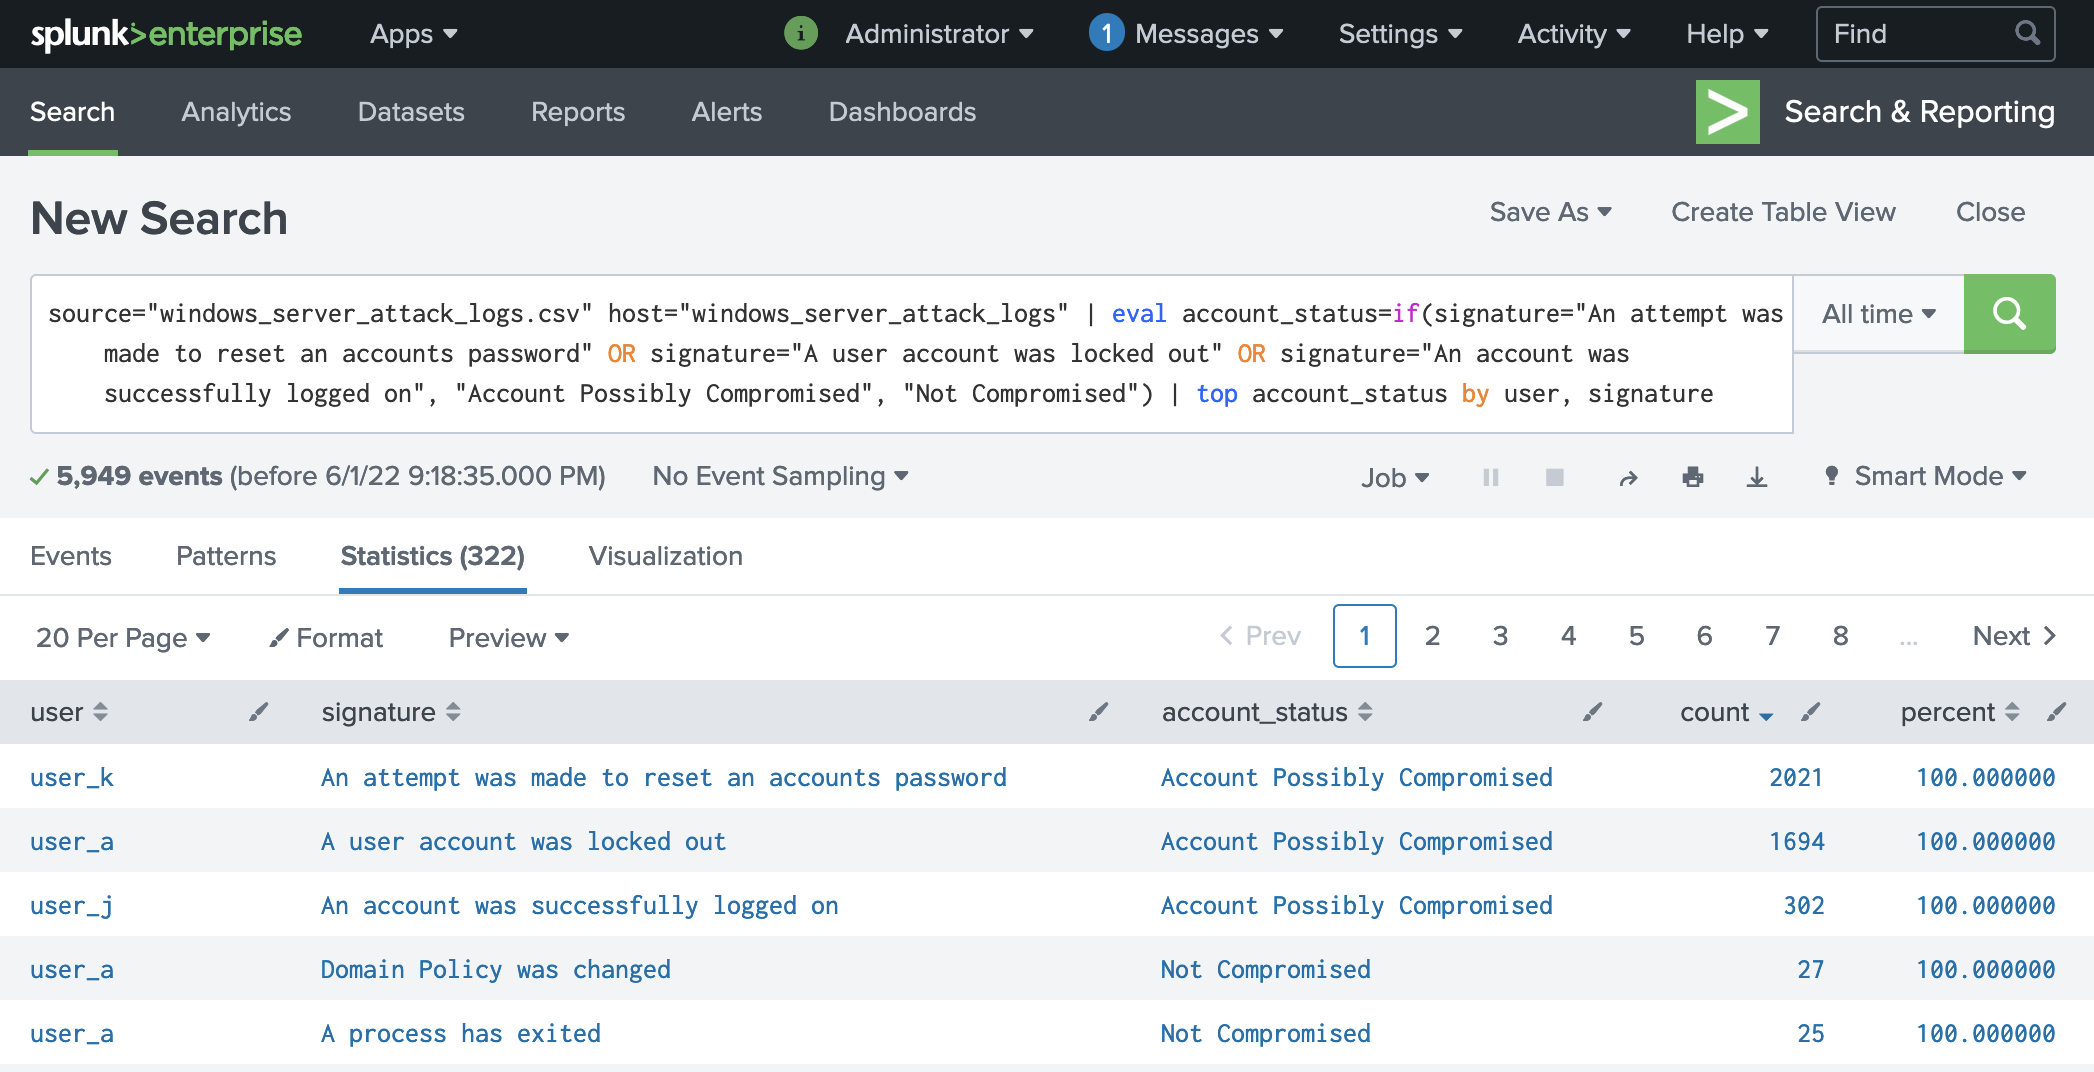
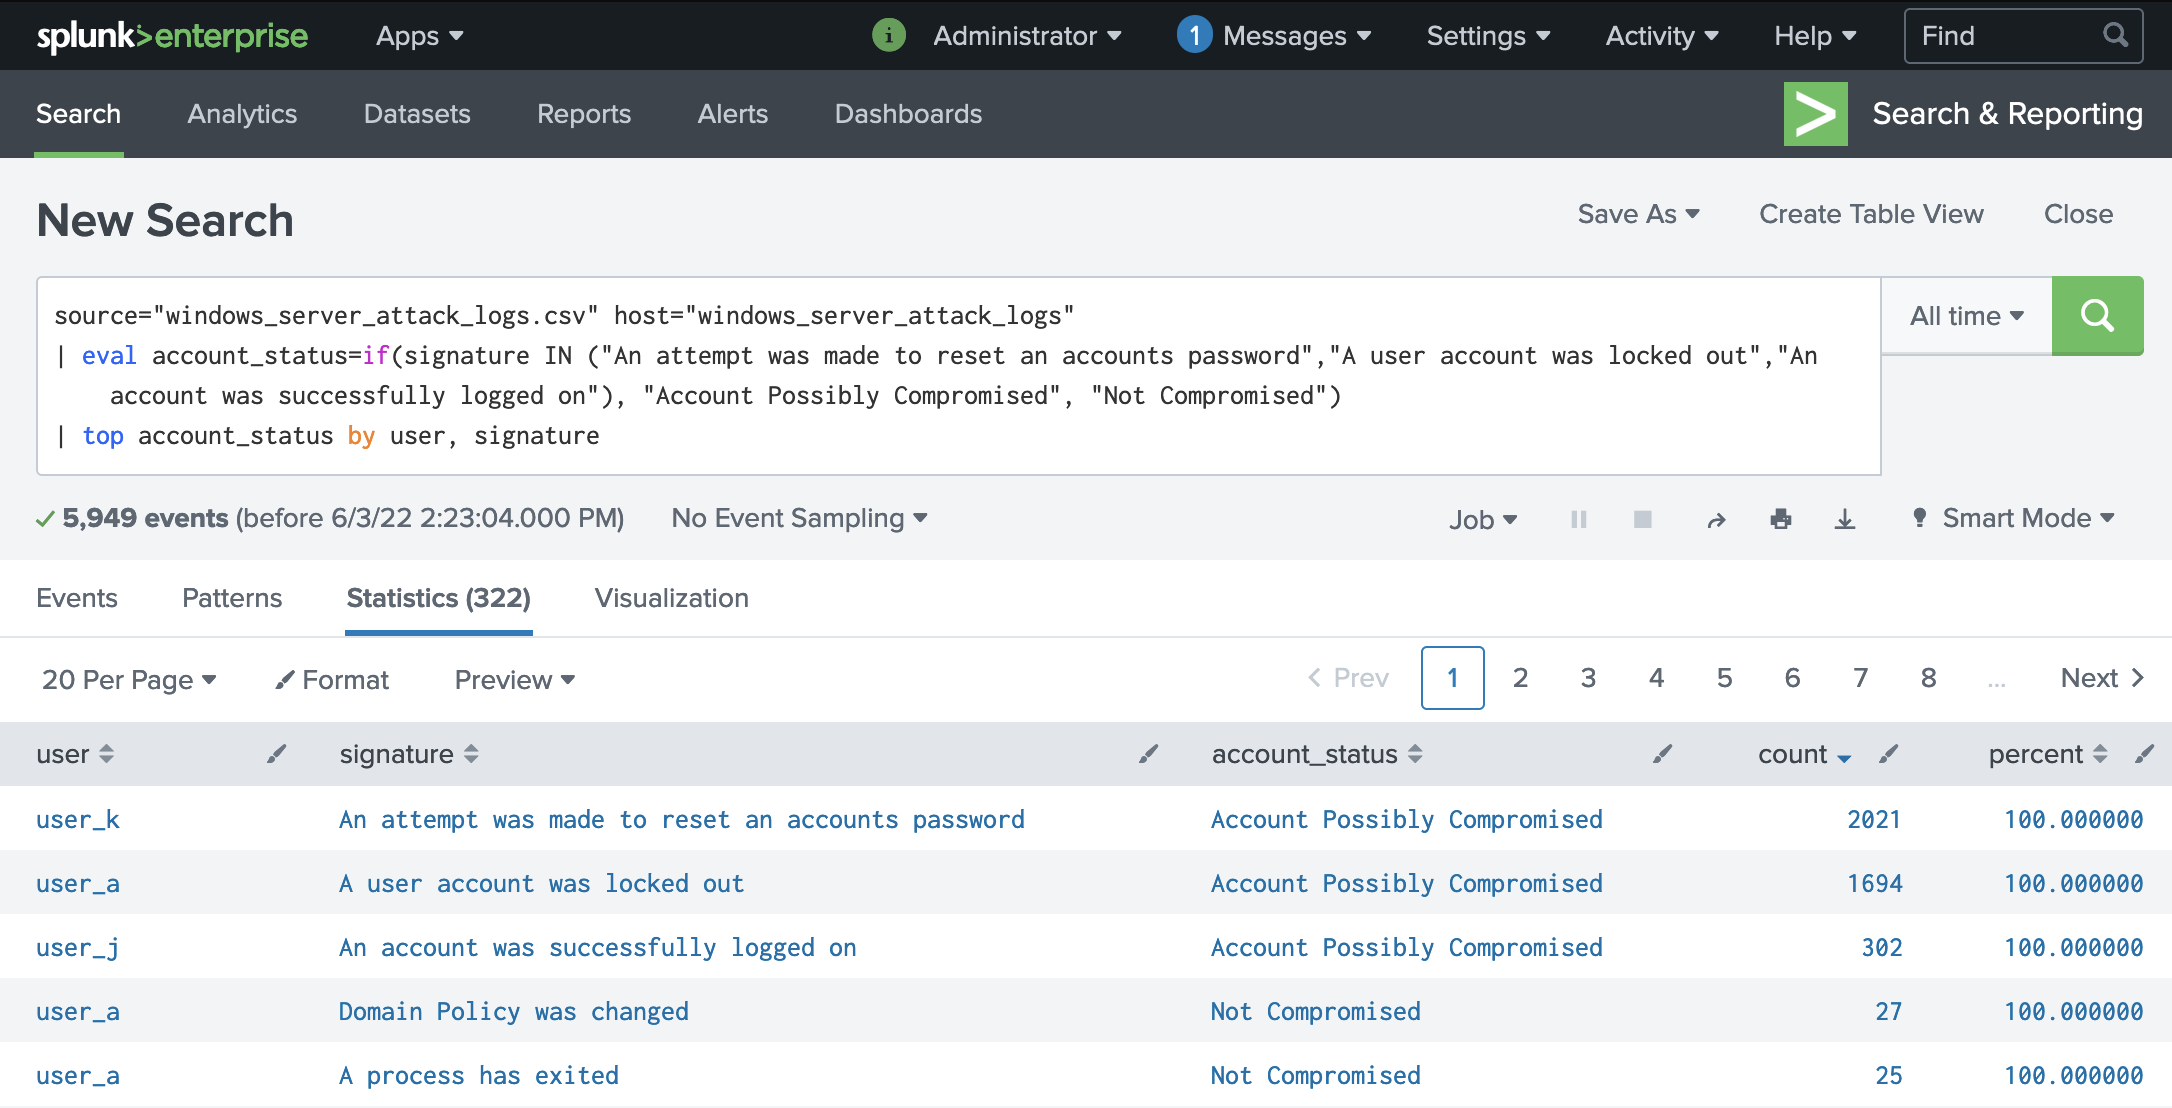
edit image error

diff --git a/README.md b/README.md
@@ -71,7 +71,7 @@ Filter by user and signature, displaying field for accounts status:
 
 (Note to click on `count` after running query as we are interested in the top count)
 
-`source="windows_server_attack_logs.csv" host="windows_server_attack_logs" | eval account_status=if(signature="An attempt was made to reset an accounts password" OR signature="A user account was locked out" OR signature="An account was successfully logged on", "Account Possibly Compromised", "Not Compromised") | top account_status by user, signature`
+`source="windows_server_attack_logs.csv" host="windows_server_attack_logs" | eval account_status=if(signature IN ("An attempt was made to reset an accounts password","A user account was locked out","An account was successfully logged on"), "Account Possibly Compromised", "Not Compromised") | top account_status by user, signature`
 
 Confirm top users:
 `source="windows_server_attack_logs.csv" host="windows_server_attack_logs"| top limit=10 user`
@@ -189,7 +189,7 @@ Since this is a web attack, we can also filter by request method to establish a 
 
 Running the same filter on the attack logs shows that we suddenly have an high volume of `POST` requests (which means that someone is attempt to submit data to the server; mostly a `LOGON` attempt in this case) coming from Ukraine and United States. This further suggests that Ukraine is where our attack originates from. Since there are also `POST` requests originating from the US, it's  possible that the American servers have been compromised and are now sending data back to the Ukraine:
 
-![apache_attack_country_method](https://raw.githubusercontent.com/yffenim/splunk_attack_visualizations/main/images/apache_baseline_country_method.png)
+![apache_attack_country_method](https://raw.githubusercontent.com/yffenim/splunk_attack_visualizations/main/images/apache_attack_country_method.png)
 
 Using the `geostats` command as requested by the assignment though the comparison isn't very semantically useful as a visualization.
 
